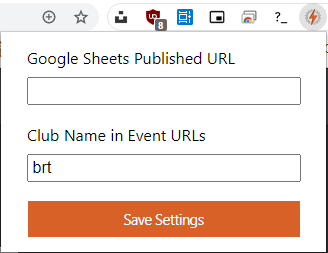
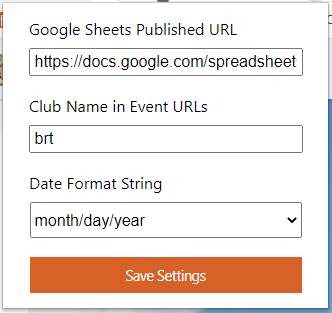
Update the options page, and mention the date format.
- The date string on the edit pages is locale sensitive, which we need to be aware of.

Changed region(s): [[0.0, 0.0, 1.0, 1.0], [0.061, 0.3874, 0.9146, 0.9407], [0.061, 0.3043, 0.9146, 0.3597]]

diff --git a/README.md b/README.md
@@ -50,7 +50,7 @@ If it is not:
 
 ![Extension in Menu](assets/the-extension-in-menu.png)
 
-In the opened options panel, enter value of your published Google Sheet. If you'd also like to use the automation of all events, then also add your club name.
+In the opened options panel, enter value of your published Google Sheet. If you'd also like to use the automation of all events, then also add your club name. Additionally, ensure the date format matches what is shown on the edit event pages, as this is locale sensitive.
 
 ![Extension Options Menu](assets/options-open.png)
 
